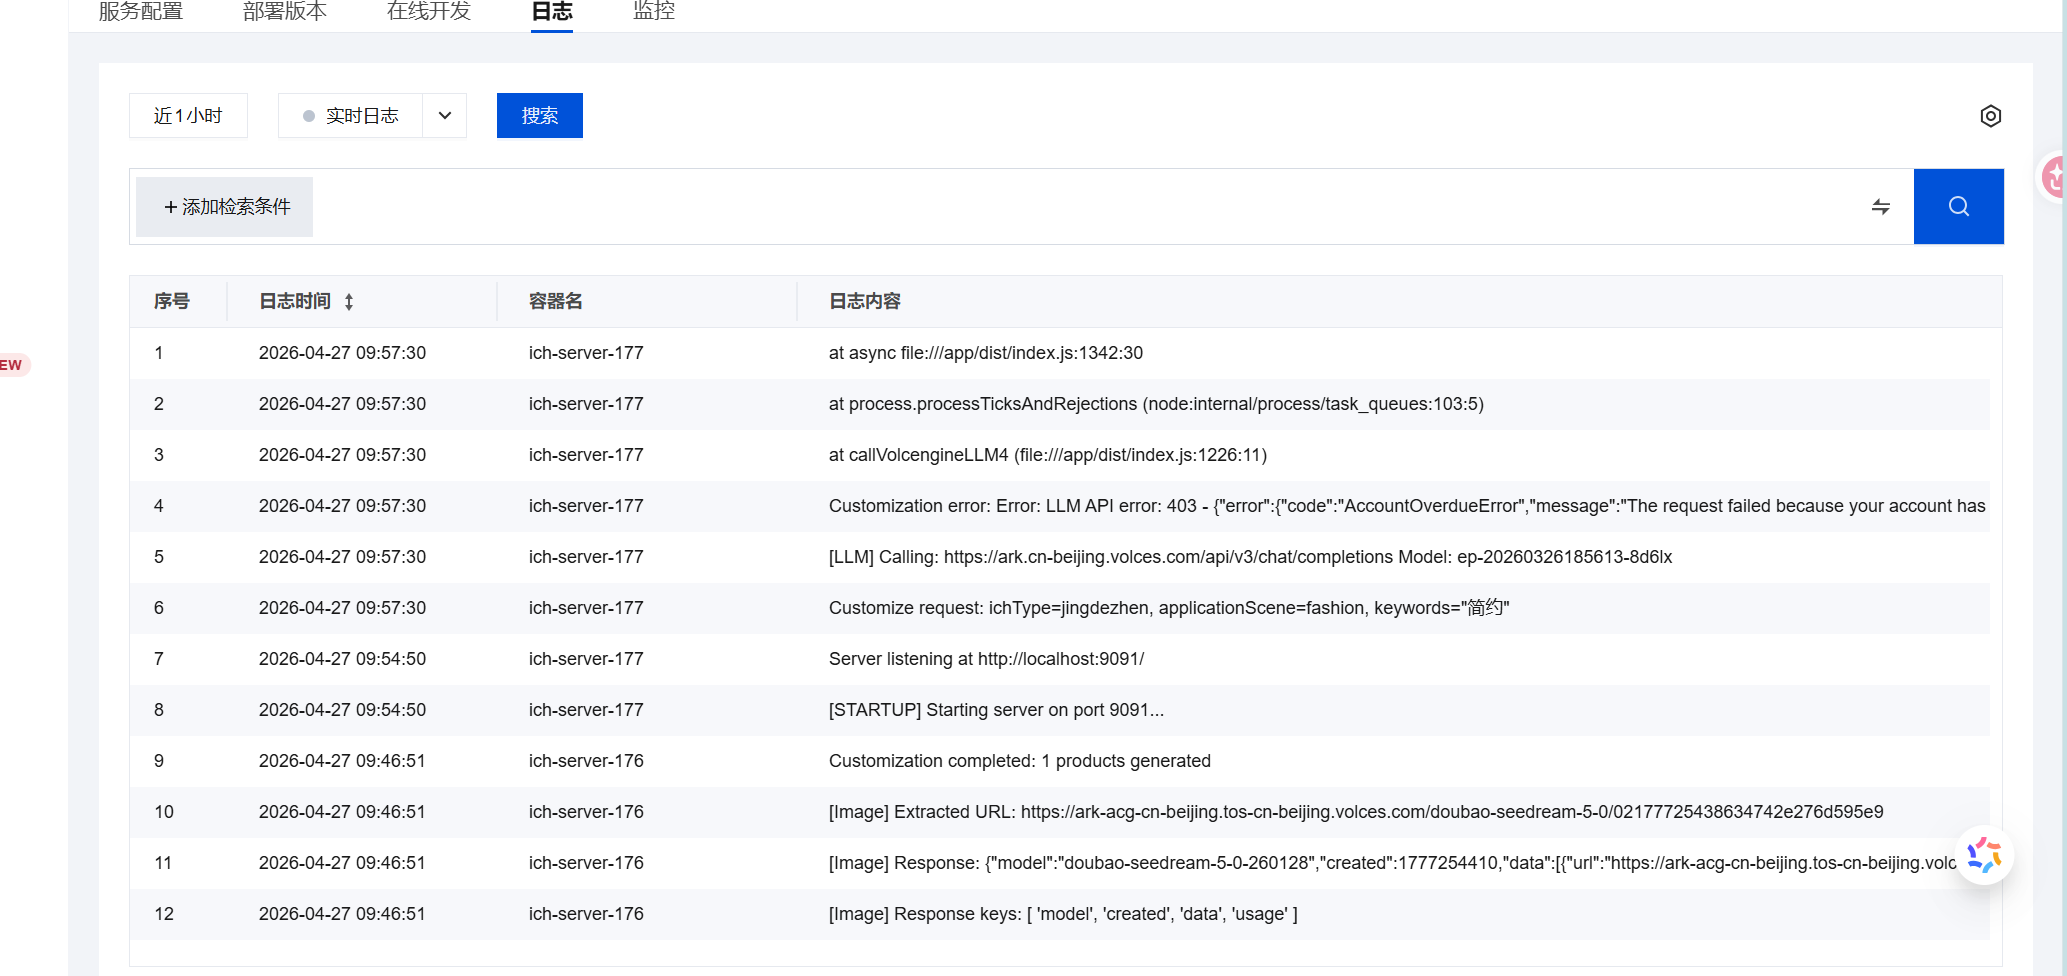
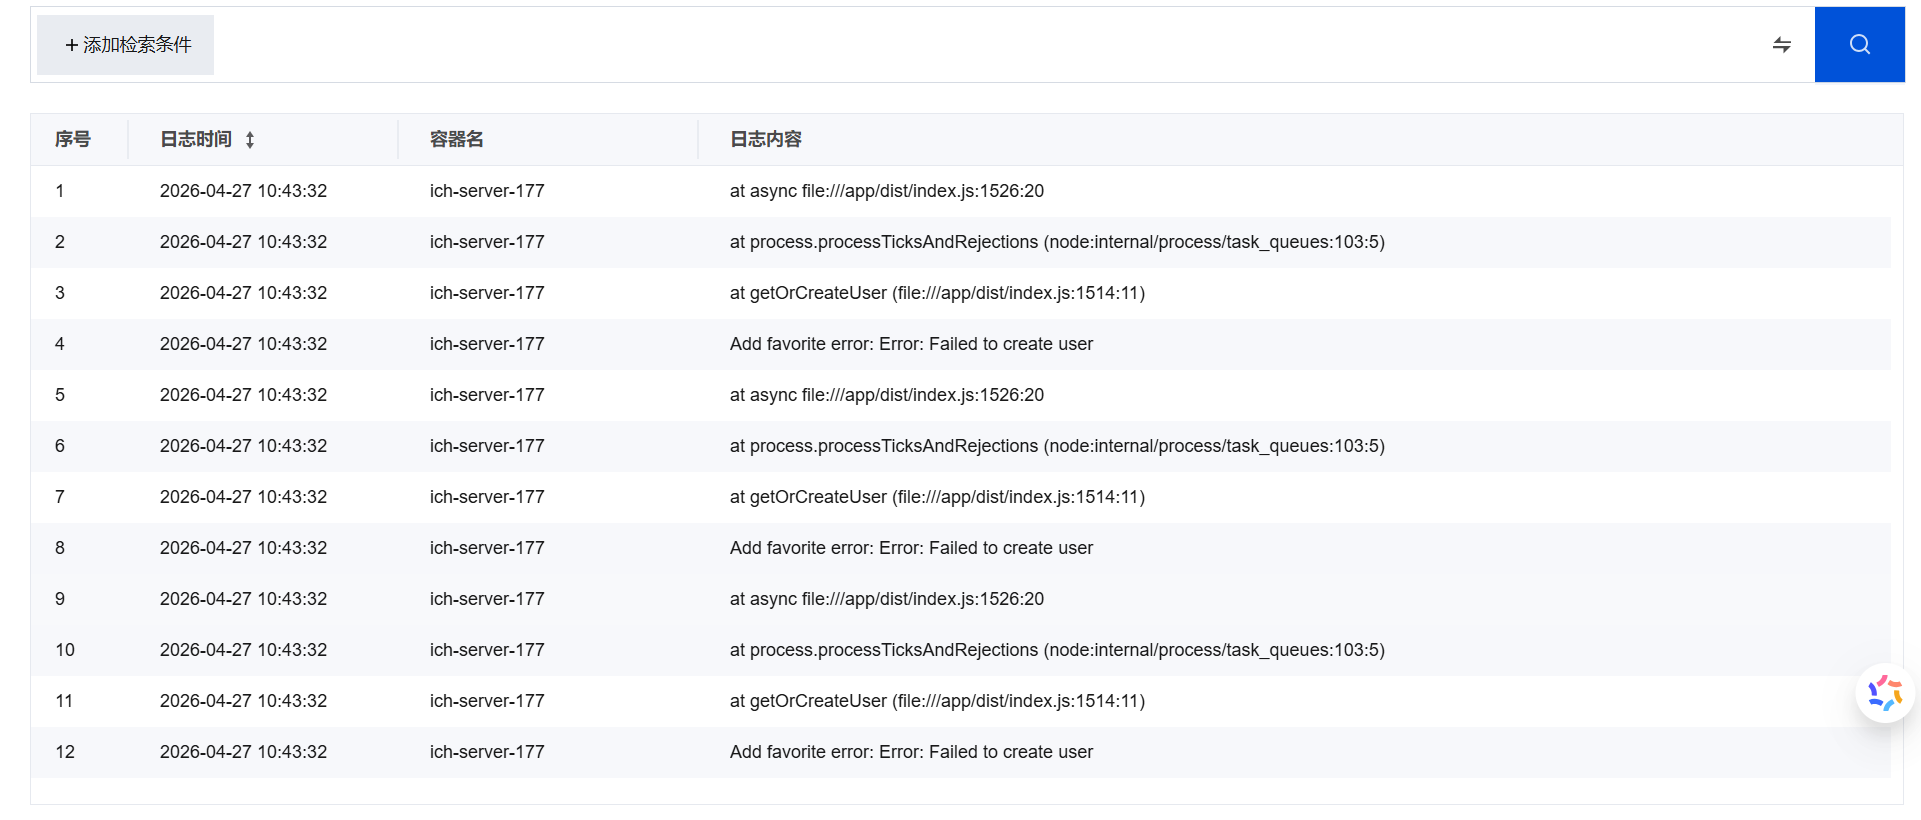
fix: 添加详细错误日志用于调试收藏功能

diff --git a/server/src/routes/favorites.ts b/server/src/routes/favorites.ts
@@ -15,27 +15,41 @@ function getUserIdentity(req: Request): string {
 // 获取或创建用户
 async function getOrCreateUser(client: any, deviceId: string): Promise<number> {
   // 先查询用户
-  const { data: existingUser } = await client
+  console.log(`[Favorites] Looking up user with device_id: ${deviceId.substring(0, 50)}...`);
+  const { data: existingUser, error: selectError } = await client
     .from('users')
     .select('id')
     .eq('device_id', deviceId)
     .single();
 
+  if (selectError) {
+    console.error(`[Favorites] Select user error:`, selectError);
+  }
+
   if (existingUser) {
+    console.log(`[Favorites] Found existing user: ${existingUser.id}`);
     return existingUser.id;
   }
 
   // 创建新用户
+  console.log(`[Favorites] Creating new user with device_id: ${deviceId.substring(0, 50)}...`);
   const { data: newUser, error } = await client
     .from('users')
     .insert({ device_id: deviceId })
     .select('id')
     .single();
 
-  if (error || !newUser) {
-    throw new Error('Failed to create user');
+  if (error) {
+    console.error(`[Favorites] Insert user error:`, error);
+    throw new Error(`Failed to create user: ${error.message}`);
   }
 
+  if (!newUser) {
+    console.error(`[Favorites] Insert succeeded but no data returned`);
+    throw new Error('Failed to create user: no data returned');
+  }
+
+  console.log(`[Favorites] Created new user: ${newUser.id}`);
   return newUser.id;
 }
 
